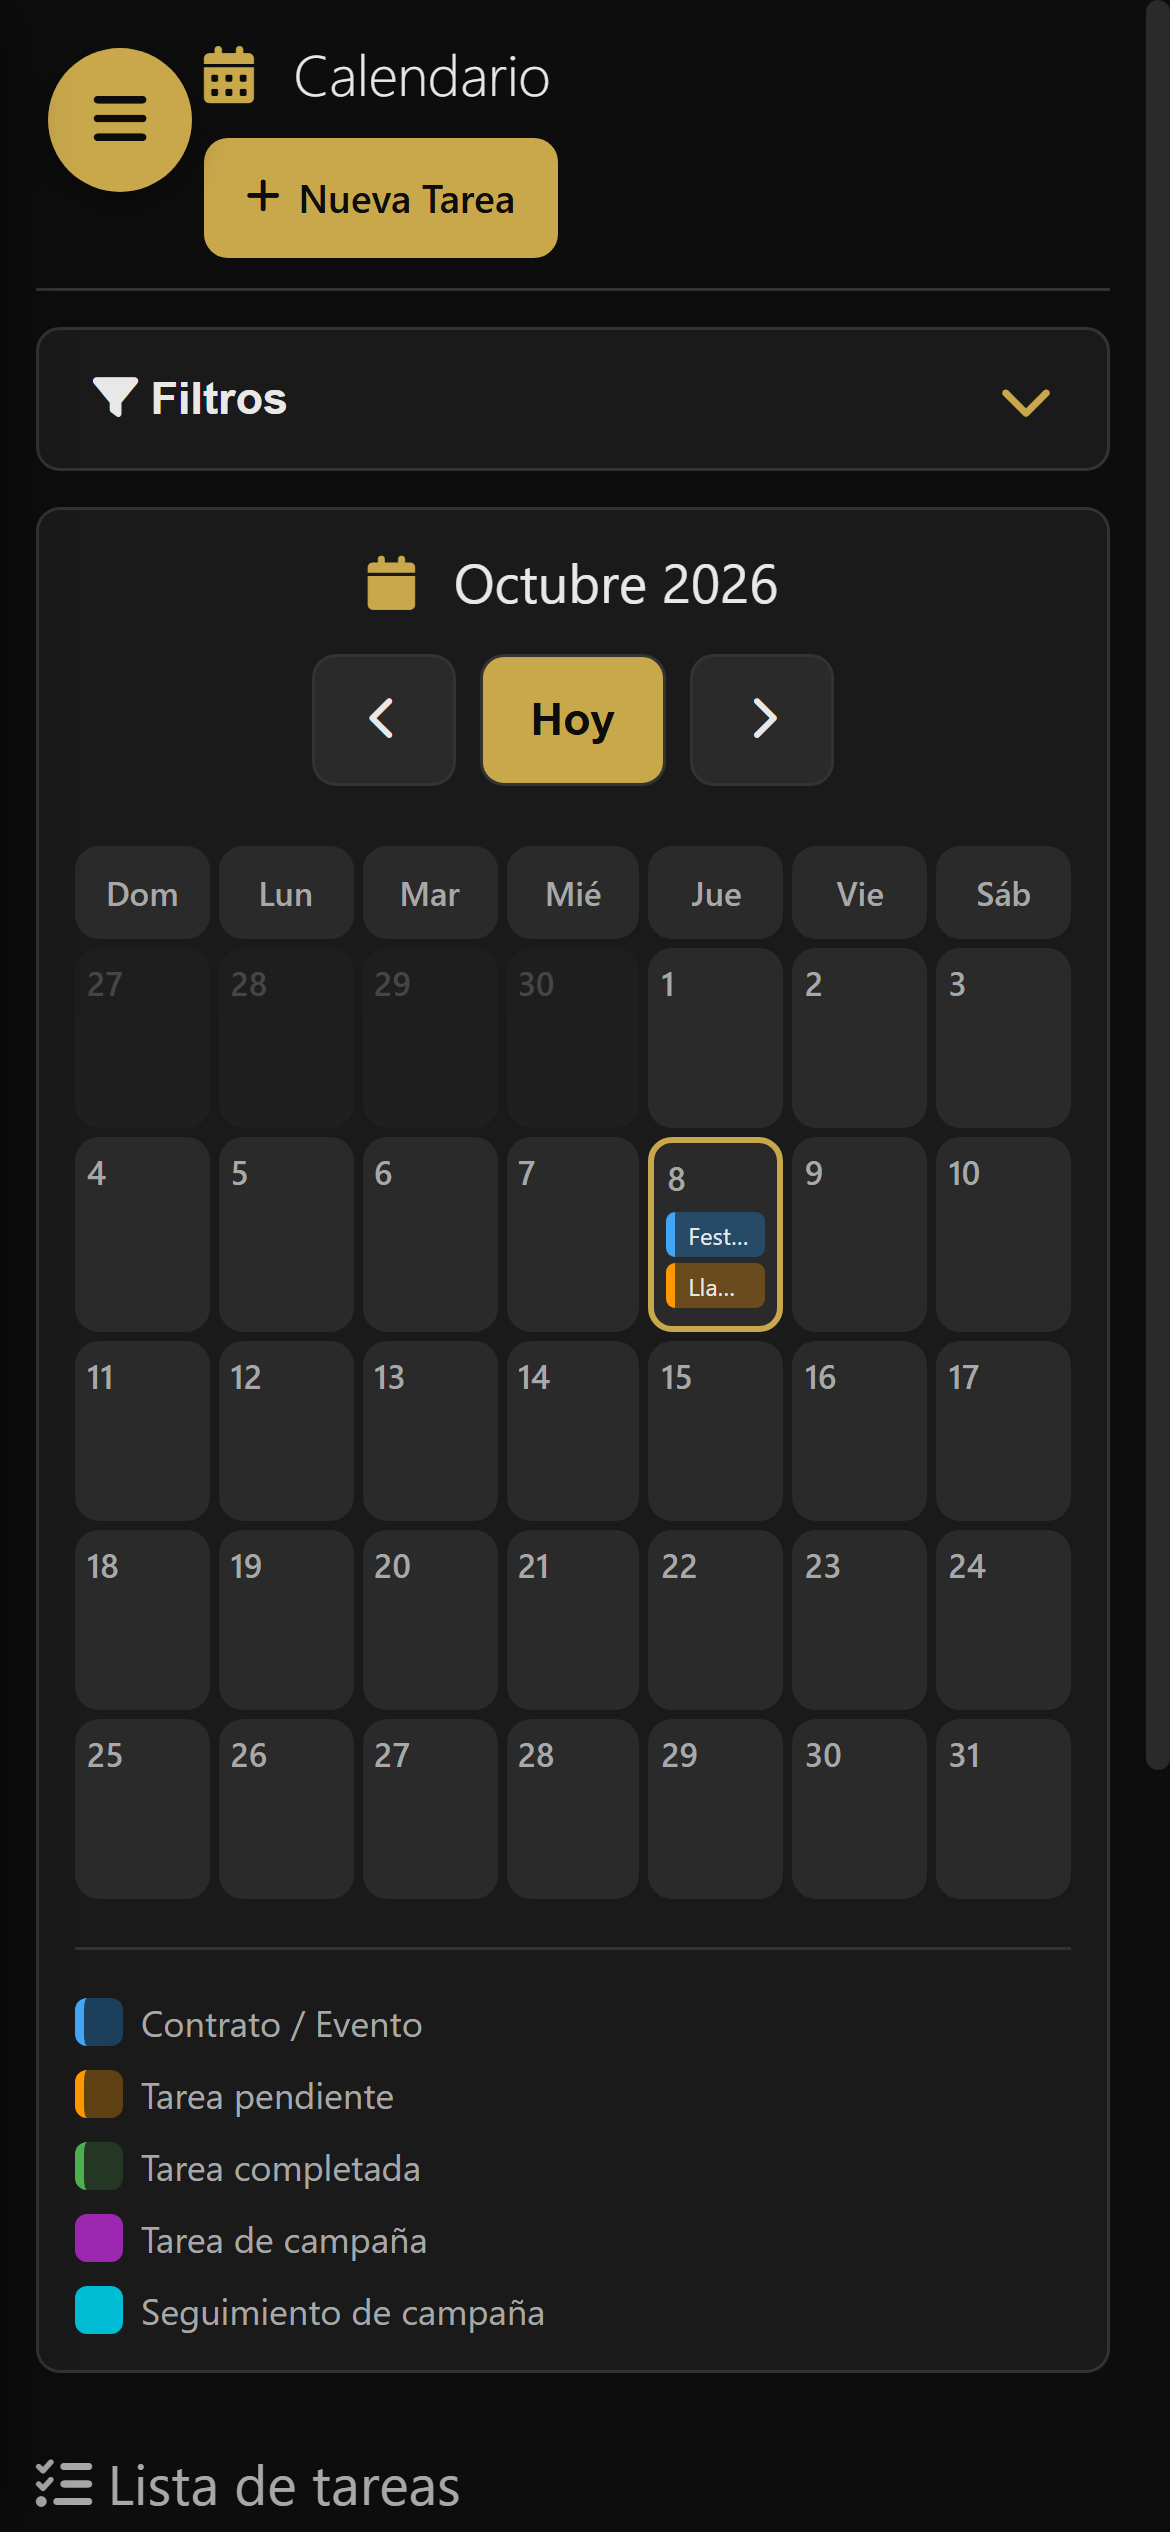
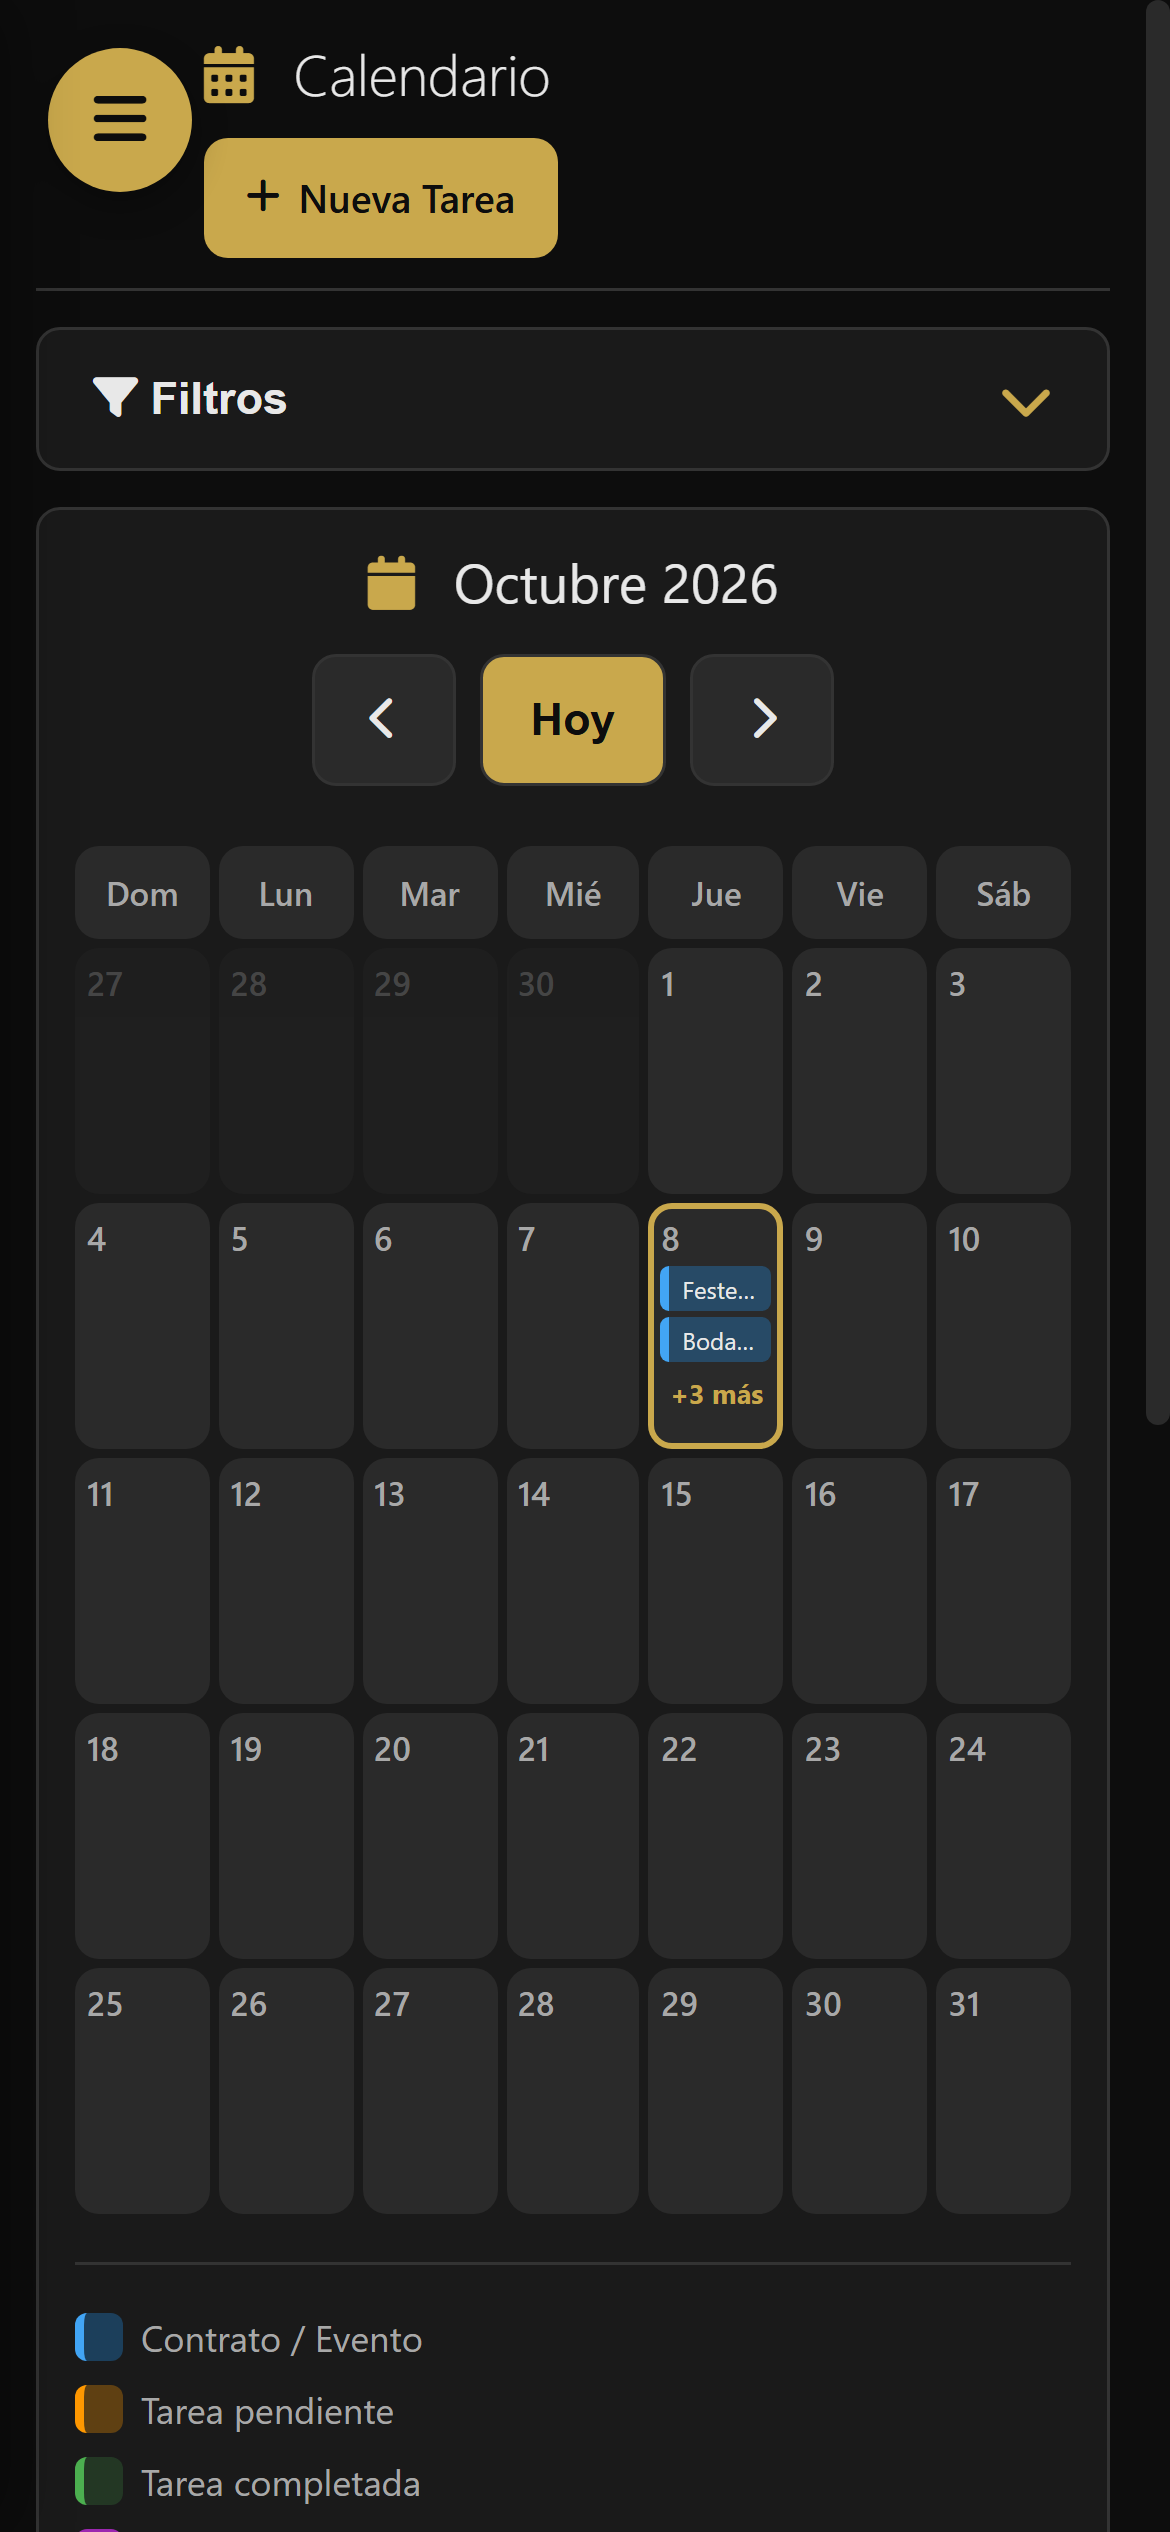
Calendario: filas de alto fijo y solo dos etiquetas por dia en el telefono (el resto en la lista del dia)
Reportado por Jorge: un dia con 3 eventos (el 17) estiraba TODA su fila para que se vieran los tres, o sea el calendario se deformaba hacia abajo. Causa: la fila de la rejilla es 'auto', asi que crecia con la casilla mas alta. Ahora la rejilla usa 'grid-template-rows:auto' + 'grid-auto-rows' (116 px en la PC, 82 px en el telefono): todas las filas miden lo mismo sin importar lo que haya, y la primera fila (los nombres de los dias) no hereda esa altura.

Ademas, en el telefono se apilan solo DOS etiquetas por dia y el resto se resume en '+N mas' (antes tres): la tercera era la que hacia crecer la fila. La lista del dia muestra todo. En la PC caben tres sin deformar nada, asi que ahi se conserva el comportamiento (una linea de codigo si Jorge prefiere dos tambien en la PC).

Dos detalles que salieron al medir: la etiqueta '+N mas' se partia en dos lineas dentro de la casilla (le faltaba 'white-space:nowrap'; medido: la casilla pedia 89 px y tenia 72), y la casilla de HOY perdia 4 px porque su marco era un 'border' de 2 px: ahora es un 'box-shadow' interior, identico a la vista pero sin quitar espacio. Medido despues: 82-82 px en 5 filas y 116-116 px en 5 filas, 0 casillas recortadas, 2 etiquetas + '+3 mas' en el telefono y 3 + '+2 mas' en la PC.
[…]

diff --git a/index.html b/index.html
@@ -374,19 +374,23 @@
            no se parte porque va en una línea). Resultado: las columnas se estiraban según
            los títulos y el calendario se deformaba (medido: de 37 a 178 px en el teléfono y
            de 119 a 220 px en la PC, con solo 5 de 7 columnas a la vista en el celular).
-           Con `minmax(0, 1fr)` las siete miden lo mismo y el texto se recorta con puntos. */
-        .calendario-grid { display: grid; grid-template-columns: repeat(7, minmax(0, 1fr)); gap: 2px; }
+           Con `minmax(0, 1fr)` las siete miden lo mismo y el texto se recorta con puntos.
+           Además la ALTURA de las filas es fija (`grid-auto-rows`): una casilla con tres
+           etiquetas ya no estira su fila. Lo que no cabe se resume en "+N más" y se ve
+           completo en la lista del día. La primera fila (los nombres de los días) queda
+           en `auto` para que no herede esa altura. */
+        .calendario-grid { display: grid; grid-template-columns: repeat(7, minmax(0, 1fr)); grid-template-rows: auto; grid-auto-rows: 116px; gap: 2px; }
         .calendario-grid .dia-nombre { text-align: center; padding: 8px 4px; font-weight: 600; font-size: 13px; color: var(--color-texto-secundario); background-color: var(--color-bg-terciario); border-radius: var(--border-radius); min-width: 0; }
         .calendario-grid .dia { min-height: 100px; background-color: var(--color-bg-terciario); border-radius: var(--border-radius); padding: 6px; transition: all 0.2s ease; cursor: pointer; position: relative; min-width: 0; overflow: hidden; }
         .calendario-grid .dia:hover { background-color: var(--color-bg-hover); }
         .calendario-grid .dia.otro-mes { opacity: 0.3; }
-        .calendario-grid .dia.hoy { border: 2px solid var(--color-acento); }
+        .calendario-grid .dia.hoy { box-shadow: inset 0 0 0 2px var(--color-acento); }
         .calendario-grid .dia .numero { font-size: 14px; font-weight: 600; color: var(--color-texto-secundario); margin-bottom: 4px; }
         .calendario-grid .dia .evento { font-size: 10px; padding: 2px 4px; border-radius: 3px; margin-bottom: 2px; white-space: nowrap; overflow: hidden; text-overflow: ellipsis; cursor: pointer; transition: all 0.2s ease; pointer-events: auto; }
         .calendario-grid .dia .evento-contrato { background-color: rgba(33, 150, 243, 0.3); border-left: 3px solid var(--color-azul); color: var(--color-texto-primario); }
         .calendario-grid .dia .evento-tarea { background-color: rgba(255, 152, 0, 0.3); border-left: 3px solid var(--color-naranja); color: var(--color-texto-primario); }
         .calendario-grid .dia .evento-completada { background-color: rgba(76, 175, 80, 0.2); border-left: 3px solid var(--color-verde); color: var(--color-texto-secundario); text-decoration: line-through; }
-        .calendario-grid .dia .evento-mas { font-size: 10px; color: var(--color-texto-secundario); text-align: center; padding: 2px; font-weight: 600; }
+        .calendario-grid .dia .evento-mas { font-size: 10px; color: var(--color-acento); text-align: center; padding: 2px; font-weight: 700; cursor: pointer; white-space: nowrap; overflow: hidden; text-overflow: ellipsis; }
         .leyenda-calendario { display: flex; gap: 16px; margin-top: 16px; flex-wrap: wrap; padding-top: 16px; border-top: 1px solid var(--color-borde); }
         .leyenda-calendario .leyenda-item { display: flex; align-items: center; gap: 6px; font-size: 12px; color: var(--color-texto-secundario); }
         .leyenda-calendario .leyenda-color { width: 16px; height: 16px; border-radius: 4px; }
@@ -962,10 +966,10 @@
             .calendario-header h2 { font-size: 18px; text-align: center; }
             .calendario-nav { justify-content: center; }
             .calendario-nav button { padding: 10px 16px; font-size: 15px; min-width: 48px; min-height: 44px; }
-            .calendario-grid { gap: 3px; }
+            .calendario-grid { gap: 3px; grid-auto-rows: 82px; }
             .calendario-grid .dia-nombre { padding: 8px 4px; font-size: 11px; }
             .calendario-grid .dia { min-height: 70px; padding: 5px; }
-            .calendario-grid .dia .numero { font-size: 12px; }
+            .calendario-grid .dia .numero { font-size: 12px; margin-bottom: 2px; }
             .calendario-grid .dia .evento { font-size: 9px; padding: 2px 4px; }
             .calendario-grid .dia .evento-mas { font-size: 9px; }
             .leyenda-calendario { flex-direction: column; gap: 8px; }
@@ -1879,7 +1883,7 @@
         /* @JS-CONFIG — Configuración y constantes globales             */
         /* ═══════════════════════════════════════════════════════════ */
         var VERSION = '5.0';
-        var BUILD_APP = '2026-10-08.23';
+        var BUILD_APP = '2026-10-08.24';
         var DOMINIO_CORREO_PERMITIDO = '';
         var PROVEEDOR_LOGIN = 'google.com';
         var CLAVE_PENDIENTES_OUTBOX = '__pda_outbox_pendientes__';
@@ -5961,7 +5965,14 @@
             let h = ds.map(function(d) { return '<div class="dia-nombre">' + d + '</div>'; }).join('');
             for (let i = 0; i < pd; i++) h += '<div class="dia otro-mes"><div class="numero">' + (dma - pd + i + 1) + '</div></div>';
             const hy = new Date(), hn = hy.getDate(), hm = hy.getMonth(), ha = hy.getFullYear();
-            const mm = 3;
+            // ─────── @JS-CALENDARIO-TOPE (8/10/2026) ───────
+            // Cuántas etiquetas caben por día ANTES de resumir el resto en "+N más".
+            // En el teléfono son dos: con tres, la fila entera del calendario crecía de
+            // alto y el calendario se deformaba hacia abajo (la fila del 17 con tres
+            // eventos quedaba más alta que las demás). Todo lo que sobra se ve completo
+            // en la lista del día, al tocar la casilla. Las filas miden lo mismo siempre
+            // (ver @CSS-CALENDARIO-UNIFORME), así que la altura no depende de lo que haya.
+            const mm = (typeof window !== 'undefined' && window.innerWidth <= 768) ? 2 : 3;
             for (let d = 1; d <= dm; d++) {
                 const fs = fechaLocalToString(anoActualCal, mesActualCal, d);
                 const eh = (d === hn && mesActualCal === hm && anoActualCal === ha);
